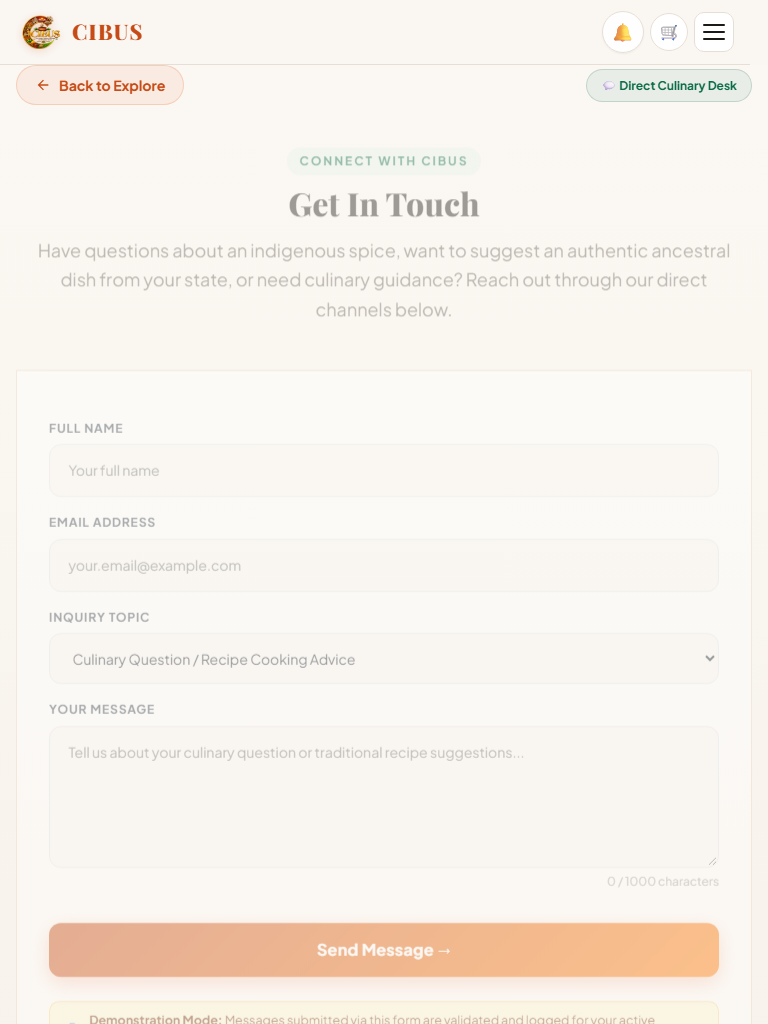
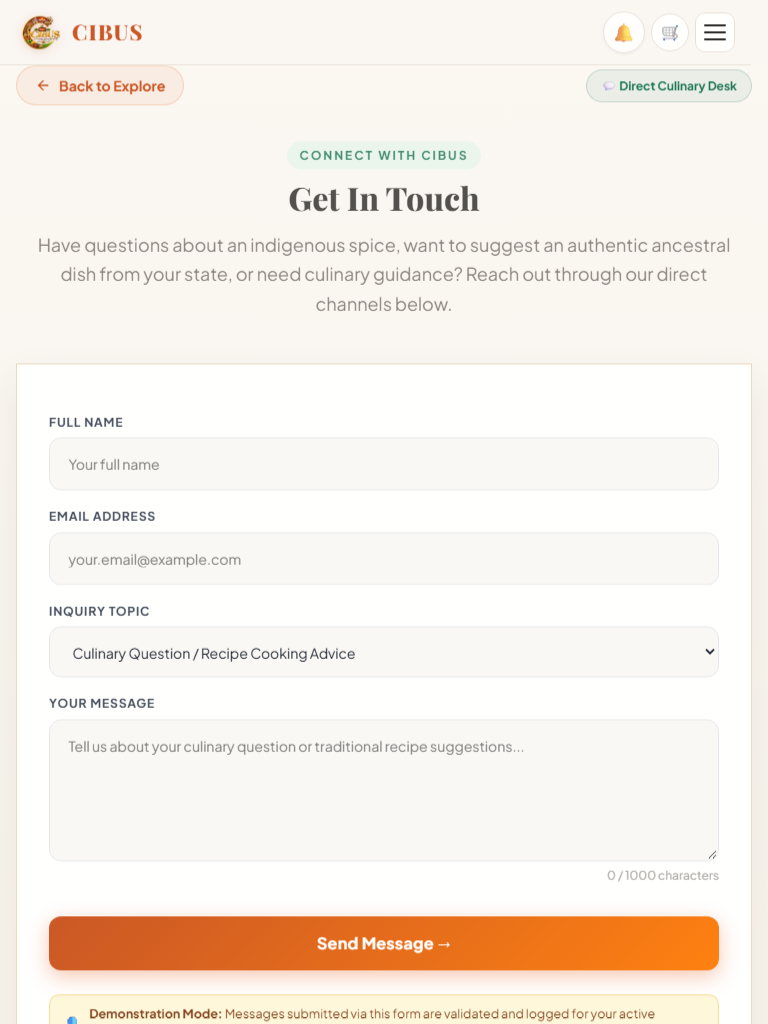
fix: eliminate container opacity blocking and restore instant recipe detail rendering

diff --git a/js/motion/motion-engine.js b/js/motion/motion-engine.js
@@ -72,8 +72,8 @@
       }
 
       const observerOptions = {
-        threshold: 0.12,
-        rootMargin: '0px 0px -30px 0px'
+        threshold: 0,
+        rootMargin: '120px 0px 120px 0px'
       };
 
       this.observer = new IntersectionObserver((entries) => {
@@ -89,7 +89,7 @@
         });
       }, observerOptions);
 
-      // Collect all motion targets
+      // Collect discrete motion targets (never hide large layout wrappers)
       const selector = [
         '[data-motion]',
         '.reveal',
@@ -97,19 +97,37 @@
         '.spice-trail-section',
         '.philosophy-section',
         '.site-footer',
-        '.food-grid',
-        '.recipes-grid-layout',
-        '.recipe-content-grid',
-        '.auth-card',
-        '.contact-container',
-        '.cart-layout'
+        '.auth-card'
       ].join(', ');
 
       const elements = document.querySelectorAll(selector);
+
+      // Immediately reveal any target matching the active hash or already in/near the initial viewport
+      const vh = window.innerHeight || document.documentElement.clientHeight;
+      const hash = window.location.hash ? window.location.hash.slice(1) : null;
+      if (hash) {
+        const hashEl = document.getElementById(hash);
+        if (hashEl) {
+          let node = hashEl;
+          while (node && node !== document.body) {
+            node.setAttribute('data-motion-revealed', 'true');
+            node.classList.add('revealed');
+            node = node.parentElement;
+          }
+        }
+      }
+
       elements.forEach((el) => {
         // Automatically inject --stagger-idx variables onto direct card/item children
         this.applyChildStaggerMetrics(el);
-        this.observer.observe(el);
+
+        const rect = el.getBoundingClientRect();
+        if (rect.top <= vh + 120 && rect.bottom >= -120) {
+          el.setAttribute('data-motion-revealed', 'true');
+          el.classList.add('revealed');
+        } else {
+          this.observer.observe(el);
+        }
       });
     },
 
@@ -294,3 +312,4 @@
     MotionEngine.init();
   }
 })();
+

diff --git a/css/motion/motion-global.css b/css/motion/motion-global.css
@@ -13,6 +13,21 @@
   transform: none;
 }
 
+/* Layout and content containers are strictly never hidden */
+main,
+.container,
+.recipe-detail-container,
+.recipe-content-grid,
+.food-grid,
+.cart-layout,
+.contact-layout,
+#recipes-card-container,
+.recipe-sidebar,
+.recipes-grid-layout,
+.recipe-card-full {
+  opacity: 1 !important;
+}
+
 /* Once JavaScript verifies environment & observer readiness, enable motion staging */
 html.js-ready [data-motion]:not([data-motion-revealed="true"]) {
   opacity: 0;
@@ -286,3 +301,4 @@ body.page-is-leaving {
   box-shadow: 0 0 0 3px rgba(199, 75, 22, 0.15);
   background-color: var(--color-surface-card);
 }
+

diff --git a/pages/recipe-detail.html b/pages/recipe-detail.html
@@ -107,7 +107,7 @@
       </section>
 
       <!-- Main Layout with Sticky Sidebar -->
-      <div class="recipe-detail-container" data-motion="fade-up">
+      <div class="recipe-detail-container">
 
         <!-- Sticky Quick Navigation Sidebar -->
         <aside class="recipe-sidebar" aria-label="Quick jump to recipe">

diff --git a/pages/food-menu.html b/pages/food-menu.html
@@ -131,7 +131,7 @@
       </div>
 
       <!-- Food Menu Grid (Populated dynamically by food-menu.js) -->
-      <div id="food-menu-grid" class="food-grid" data-motion="fade-up">
+      <div id="food-menu-grid" class="food-grid">
         <!-- Rendered by FoodMenuController -->
       </div>
 

diff --git a/pages/recipe-cards.html b/pages/recipe-cards.html
@@ -124,7 +124,7 @@
       </div>
 
       <!-- Recipe Cards Display Container -->
-      <div id="recipes-card-container" data-motion="fade-up">
+      <div id="recipes-card-container">
         <!-- Rendered dynamically by RecipesController.renderCards() -->
       </div>
 

diff --git a/pages/contact.html b/pages/contact.html
@@ -116,7 +116,7 @@
       </section>
 
       <!-- Contact Layout -->
-      <div class="contact-layout" data-motion="fade-up">
+      <div class="contact-layout">
 
         <!-- Form Column -->
         <div class="contact-form-card">

diff --git a/pages/cart.html b/pages/cart.html
@@ -107,7 +107,7 @@
       </section>
 
       <!-- Cart Layout -->
-      <div class="cart-layout" data-motion="fade-up">
+      <div class="cart-layout">
 
         <!-- Cart Items Column -->
         <div class="cart-items-panel">

diff --git a/css/motion/motion-tokens.css b/css/motion/motion-tokens.css
@@ -53,3 +53,4 @@
      ========================================================================== */
   --motion-perspective: 1200px;
 }
+

diff --git a/css/motion/motion-sections.css b/css/motion/motion-sections.css
@@ -625,3 +625,4 @@
   transform: translateY(-3px) scale(1.15);
   color: var(--color-primary);
 }
+
